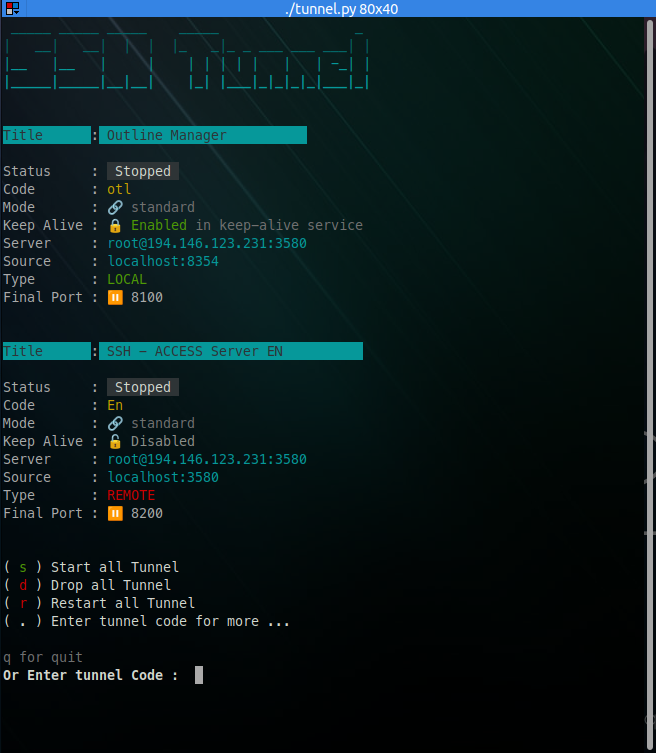
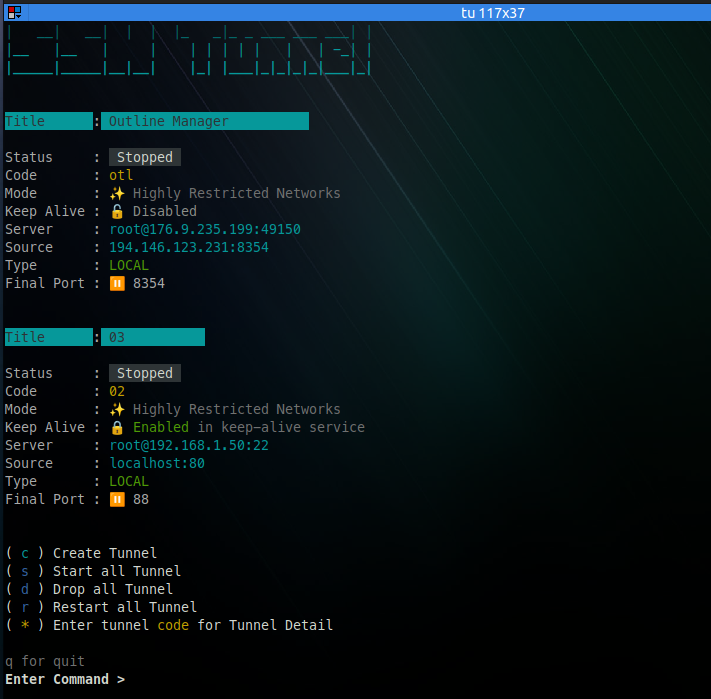
عحیشفث

Changed region(s): [[0.0, 0.0, 1.0, 1.0], [0.0, 0.4506, 0.5793, 0.9013], [0.0, 0.9313, 0.1829, 0.9914]]

diff --git a/README.MD b/README.MD
@@ -221,29 +221,29 @@ ssh-copy-id -i key/id_rsa.pub <USER>@<IP>
 </p>
 
 
-## راه اندازی تونل
+## مدیریت تونل ها
+
+
+- `c` : ایجاد تونل
+- `s` : فعال سازی همه تونل ها
+- `d` : توقف همه تونل ها
+- `r` : راه اندازی مجدد تونل ها
+- `*` : نمایش اطلاعات تونل با وارد کردن کد آن
 
 
 <p align="center">
     <img src="docs/MainMenu.png" style="width:40%; height:auto;">
 </p>
 
-برای استارت همه توتل ها کلید `s` را بزنید 
 
-<p align="center">
-    <img src="docs/MainMenu-started.png" style="width:40%; height:auto;">
-</p>
 
-برای توقف همه تونل ها کلید `d` را بزنید 
+### مدیریت تونل
 
-### مدیریت تونل ها
-
-برای مشاهده جزییات یک کلبد و تغییر وضعیت آن کد آن را در منوی اصلی وارد کنید
+برای مشاهده جزییات، `راه اندازی` / `توقف` و یا `حذف` یک تونل کد آن را در من.ی اصلی وارد کنید.
 
 <p align="center">
     <img src="docs/tunnel-detail.png" style="width:50%; height:auto;">
 </p>
-
 
 
 ### فعال کردن سرویس keep-alive
@@ -318,14 +318,14 @@ tail -f logs/KeepAlivelog.csv
 
 تونل فعال نمی شود وبا بلافاصله پس از فعال شدن غیر فعال می گردد
 
- - ایراد در تنظیمات 
+ - اطلاعات وارد شده درست نیست
  - پورت نهایی آزاد نمی باشد.
- - کلید ssh به درستی راه اندازی نشده است.
+ - [کلید ssh](#ایجاد-کلید) به درستی راه اندازی نشده است.
 
 تونل فعال است و پورت مقصد هم باز شده است ولی هیچ اطلاعاتی دریافت نمی گردد
  
  - پورت مبدا اشتباه است 
- - اگر نوع تونل ریموت می باشد، گزینه GatewayPorts درتنظیمات سرور پل فعال نشده است .
+ - اگر نوع تونل ریموت می باشد، گزینه [GatewayPorts](#فعال-کردن-گزینه-gatewayports-در-سرور-رابط) درتنظیمات سرور پل فعال نشده است .
 
 ### فعال کردن گزینه `GatewayPorts` در سرور رابط
 
